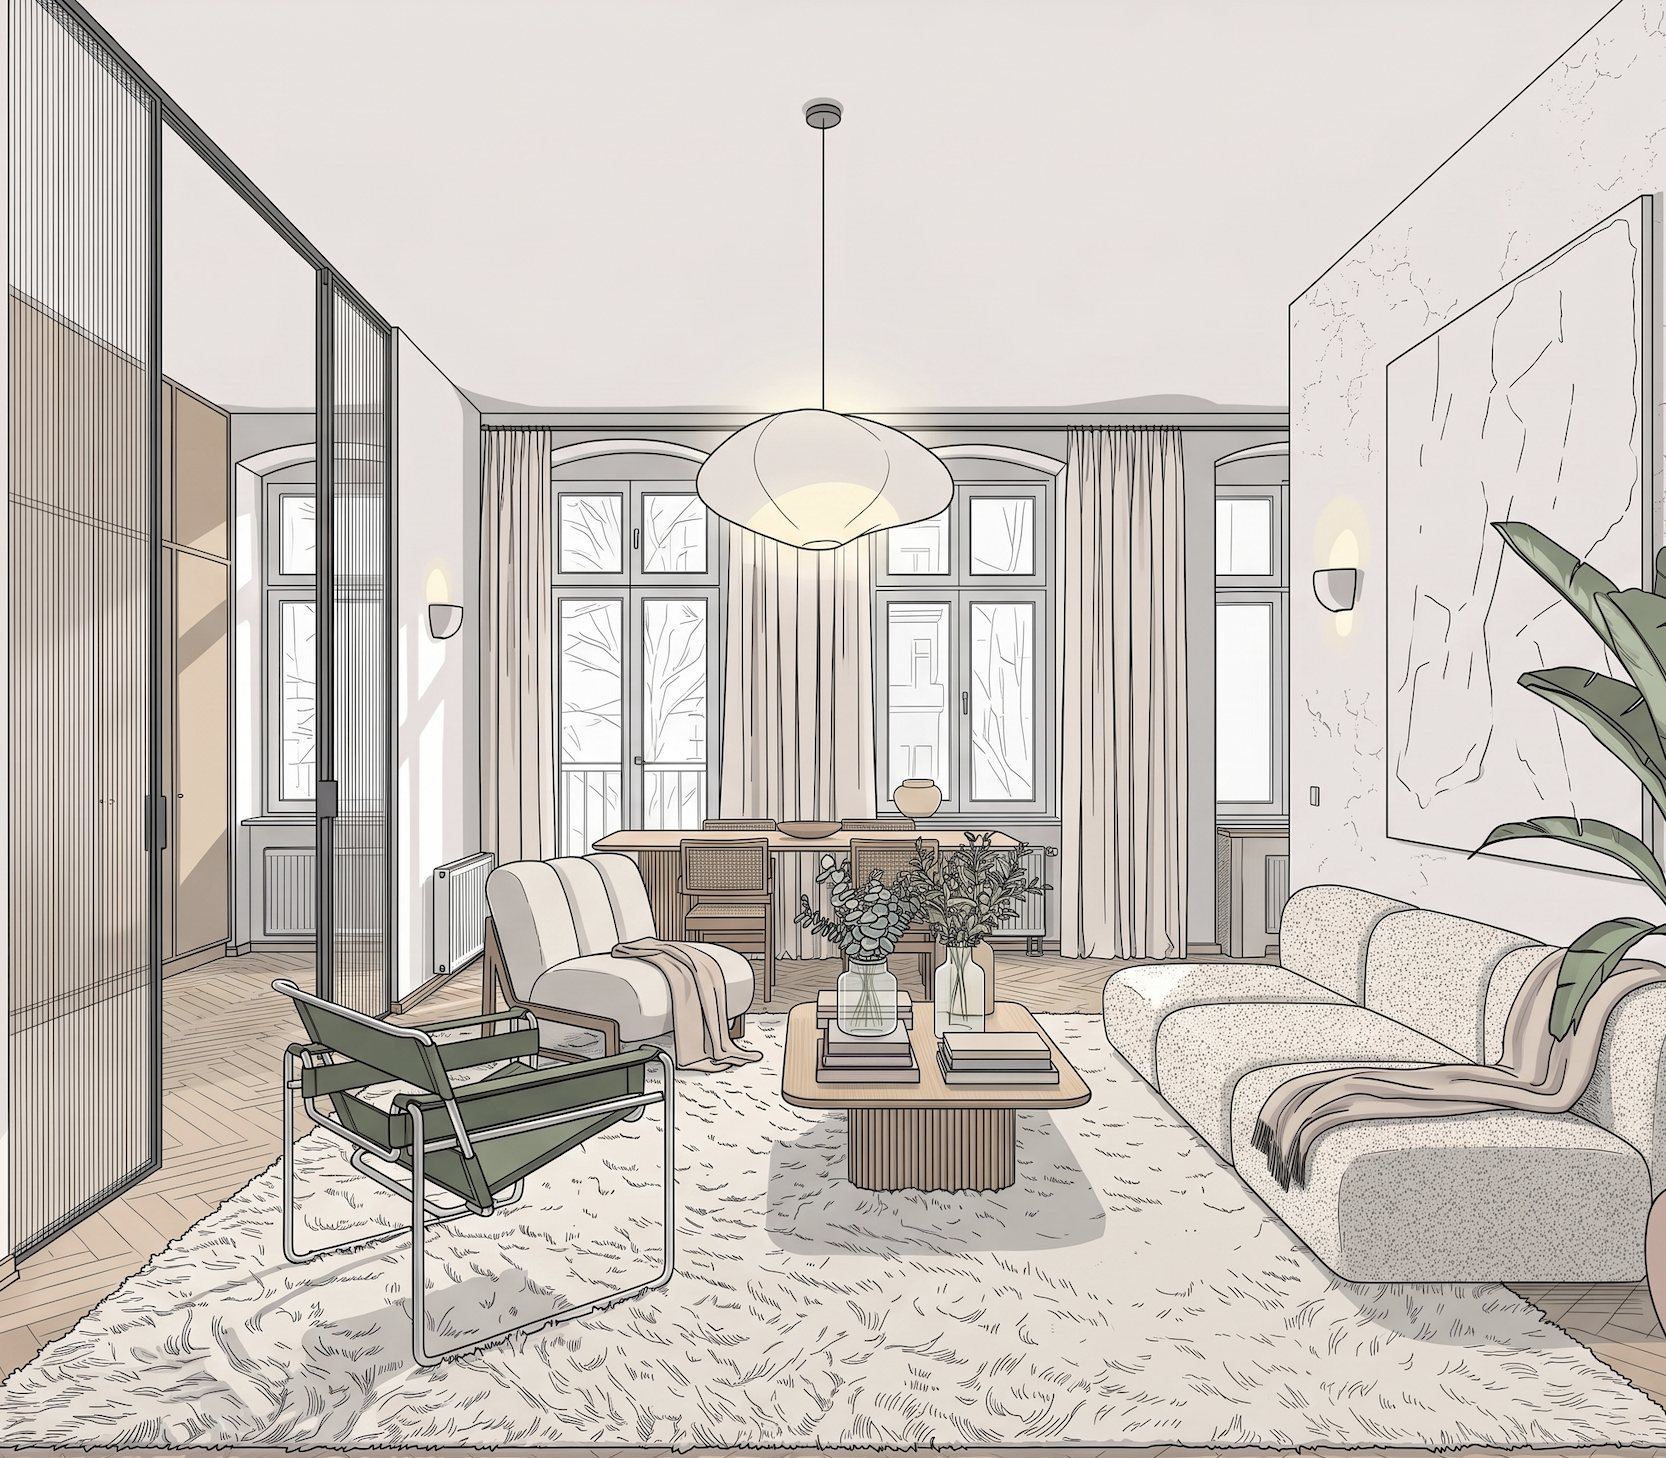
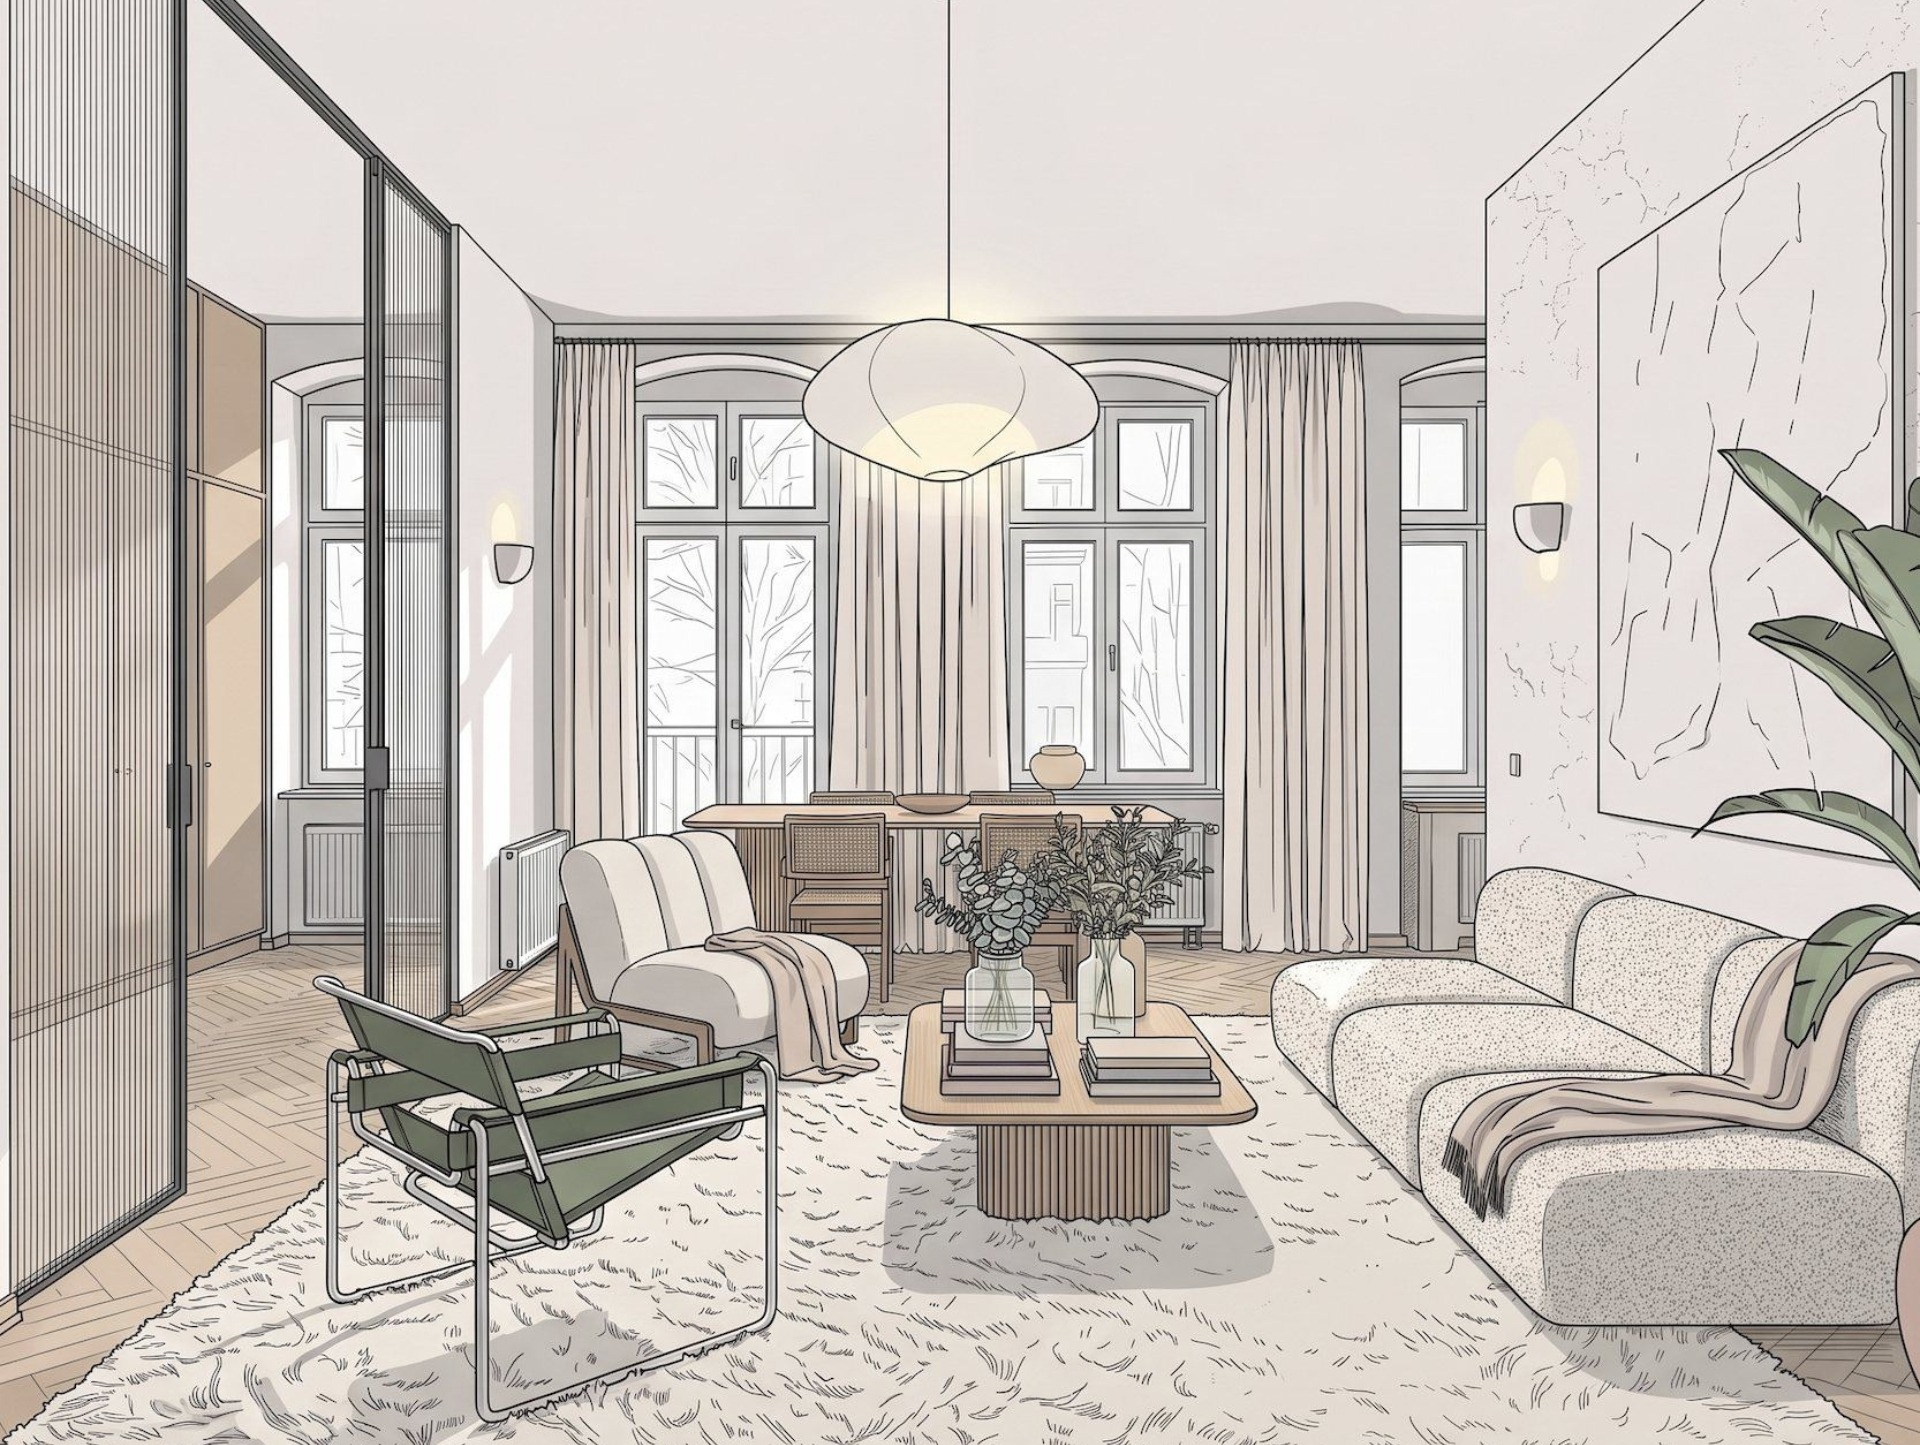
Replace hero cover image with recropped version, adjust aspect-ratio to match

diff --git a/css/style.css b/css/style.css
@@ -316,7 +316,7 @@ h1, h2, h3, h4 {
      rounding discrepancy to worry about. */
   width: 100%;
   margin: 0 0 var(--space-lg);
-  aspect-ratio: 1666 / 1458;
+  aspect-ratio: 1920 / 1445;
   overflow: hidden;
   background: var(--color-cream-deep);
 }
@@ -715,7 +715,7 @@ h1, h2, h3, h4 {
 @media (max-width: 900px) {
   .nav-desktop, .nav-cta .btn { display: none; }
   .nav-toggle { display: flex; }
-  .hero-visual { aspect-ratio: 1666 / 1458; }
+  .hero-visual { aspect-ratio: 1920 / 1445; }
   .about-grid { grid-template-columns: 1fr; }
   .contact-grid { grid-template-columns: 1fr; }
   .timeline-item { grid-template-columns: 1fr; gap: 0.4rem; }
